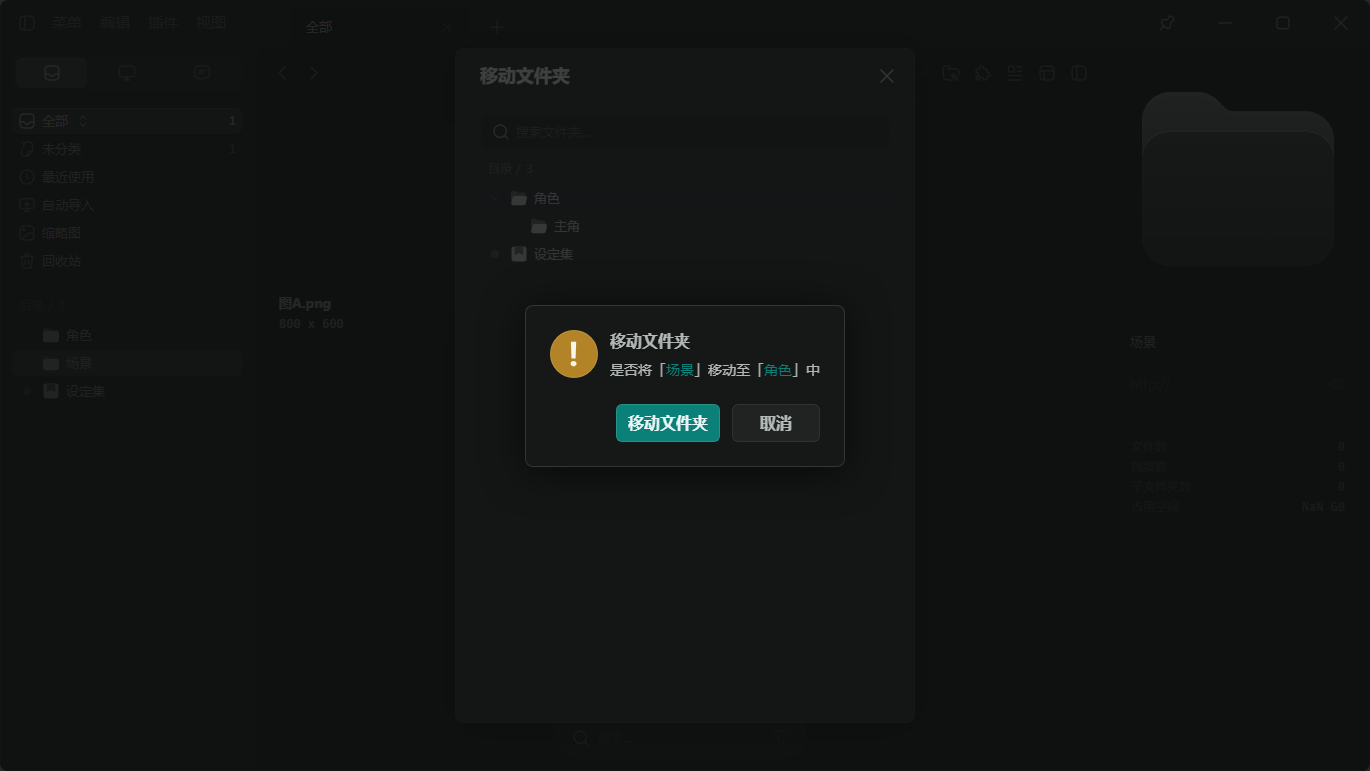
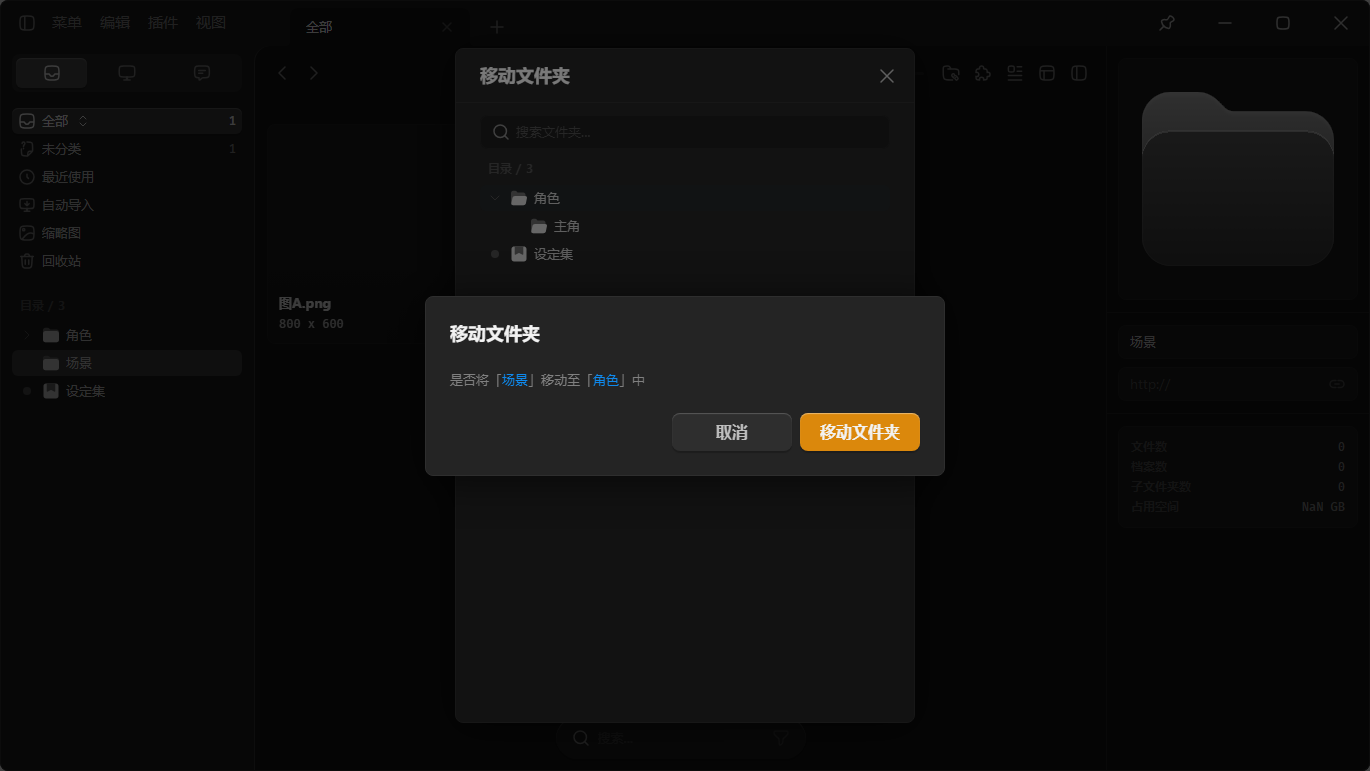
feat(ui): 通用确认弹窗换代ConfirmModal(AppConfirm渲染层迁移,用户实机指示「顺便换成最新的」)——confirmPrompt宿主AppConfirm渲染层AppModal(plain/alert)退役换modals/ConfirmModal(520宽/标题18/26一级/正文13/18三级/钮120×38次左主右/遮罩黑50%),9生产方字段零改全量随迁:kind映射=alert warning→warning/alert error·danger→danger/无alert→brand(稿:不危险的提示换品牌色),alert提示音保留(watch播playAl

Changed region(s): [[0.3066, 0.4047, 0.6745, 0.5914], [0.3679, 0.249, 0.4292, 0.3424], [0.3372, 0.0623, 0.4292, 0.1245]]

diff --git a/src/components/AppConfirm.vue b/src/components/AppConfirm.vue
@@ -1,16 +1,31 @@
 <script setup lang="ts">
-// 通用确认弹窗（6.3）：轻量一次性确认——警示前置（文件管理器打开）/ 可撤销操作说明
-//（删除文件夹）/ 不可逆操作二次确认（彻底删除，danger 主按钮错误色）。
+// 通用确认弹窗（6.3）——2026-09-08 换代：渲染层 AppModal（plain / alert）退役，换 modals/ConfirmModal
+//（组件/模态窗口/弹窗 稿：520 宽 / 标题 18/26 Bold 一级 / 正文 13/18 三级 / 按钮 120×38 次左主右）。
+// 字段映射：alert warning → kind warning（状态/警告钮）；alert error / danger → kind danger（状态/禁止钮）；
+// 无 alert 非危险 → kind brand（品牌/常态钮——稿：不危险的提示换品牌色）。
+// alert 提示音保留（figma 09 侵入式语义，lib/sounds playAlert）；bodySegments 高亮段保留 = 品牌/常态
+// --n-brand（新稿正文未画高亮——功能必需就近定档，旧 29 稿品牌色高亮口径沿，色号随新品牌）。
 // 由 selection.confirmPrompt 驱动，宿主 App.vue。
-// 2026-08-13 用户定：统一 AppModal plain 壳（无 X 纯标题，同 27_导入 弹窗族），
-// 按钮序主左次右（确认/导入在左、取消在右），旧 del-* 手写卡片废除。
-// 2026-08-13 用户定：高危操作走 AppModal alert 危险模板（figma 09：48 状态徽章横排 + 提示音）——
-// confirmPrompt.alert 设置即切换（首个用例 = 文件管理器打开警示）。
-import AppModal from "./AppModal.vue";
-import AppButton from "./AppButton.vue";
-import { useSelectionStore } from "../stores/selection";
+import { watch } from "vue";
+import ConfirmModal from "./modals/ConfirmModal.vue";
+import { playAlert } from "../lib/sounds";
+import { useSelectionStore, type ConfirmPrompt } from "../stores/selection";
 
 const selection = useSelectionStore();
+
+// alert 提示音：弹窗出现时播一次（旧 AppModal alert onMounted 口径）
+watch(
+  () => selection.confirmPrompt,
+  (p) => {
+    if (p?.alert) playAlert();
+  },
+);
+
+function kindOf(p: ConfirmPrompt): "warning" | "danger" | "brand" {
+  if (p.alert === "error" || p.danger) return "danger";
+  if (p.alert === "warning") return "warning";
+  return "brand";
+}
 
 function onConfirm(): void {
   const p = selection.confirmPrompt;
@@ -23,56 +38,27 @@ function onCancel(): void {
 </script>
 
 <template>
-  <AppModal
+  <ConfirmModal
     v-if="selection.confirmPrompt"
-    :variant="selection.confirmPrompt.alert ? 'alert' : 'plain'"
-    :alert-icon="selection.confirmPrompt.alert ?? 'warning'"
     :title="selection.confirmPrompt.title"
-    class="app-confirm"
-    @close="onCancel"
+    :kind="kindOf(selection.confirmPrompt)"
+    :confirm-label="selection.confirmPrompt.confirmLabel ?? '确认'"
+    @confirm="onConfirm"
+    @cancel="onCancel"
   >
-    <p class="text">
-      <template v-if="selection.confirmPrompt.bodySegments">
-        <template v-for="(seg, i) in selection.confirmPrompt.bodySegments" :key="i">
-          <span v-if="seg.accent" class="accent">{{ seg.text }}</span>
-          <template v-else>{{ seg.text }}</template>
-        </template>
+    <template v-if="selection.confirmPrompt.bodySegments">
+      <template v-for="(seg, i) in selection.confirmPrompt.bodySegments" :key="i">
+        <span v-if="seg.accent" class="accent">{{ seg.text }}</span>
+        <template v-else>{{ seg.text }}</template>
       </template>
-      <template v-else>{{ selection.confirmPrompt.body }}</template>
-    </p>
-    <template #actions>
-      <AppButton
-        variant="primary"
-        :class="{ danger: selection.confirmPrompt.danger }"
-        :label="selection.confirmPrompt.confirmLabel ?? '确认'"
-        @click="onConfirm"
-      />
-      <AppButton variant="panel" label="取消" @click="onCancel" />
     </template>
-  </AppModal>
+    <template v-else>{{ selection.confirmPrompt.body }}</template>
+  </ConfirmModal>
 </template>
 
 <style scoped>
-/* 正文：正文档常态色；限宽 420（含壳 padding 24×2），超长换行 */
-.text {
-  margin: 0;
-  max-width: 372px;
-  font-size: var(--text-body-size);
-  line-height: var(--text-body-line);
-  color: var(--text-normal);
-  word-break: break-all;
-}
-/* 按钮 88×38（速查表按钮组定宽口径，2026-08-15 探针实证「取消」两字钮塌到 56 宽）；
-   min-width 不压长标签（删除文件夹等超 88 按内容撑开） */
-.app-confirm :deep(.actions) .app-btn {
-  min-width: 88px;
-}
-/* danger（不可逆操作二次确认）：主按钮错误色 */
-.app-confirm :deep(.app-btn.danger) {
-  background: var(--error);
-}
-/* 正文高亮段（3.4 移动确认，29 稿：发起名 / 目标父级名品牌色-常态） */
-.text .accent {
-  color: var(--brand);
+/* 正文高亮段（3.4 移动确认：发起名 / 目标父级名品牌色——新稿未画高亮，就近定档 --n-brand） */
+.accent {
+  color: var(--n-brand);
 }
 </style>

diff --git a/src/components/modals/ConfirmModal.vue b/src/components/modals/ConfirmModal.vue
@@ -77,6 +77,7 @@ const emit = defineEmits<{ confirm: []; cancel: [] }>();
   font-size: var(--n-fs-body);
   line-height: var(--n-lh-body);
   color: var(--n-l3);
+  word-break: break-all; /* 沿用旧 AppConfirm 正文折行口径——长路径/英文串不顶出 520 定宽 */
 }
 .actions {
   display: flex;

diff --git a/tools/cdp-move-panel-probe.py b/tools/cdp-move-panel-probe.py
@@ -2,8 +2,8 @@
 #   S1 右键树 f2 →「移动文件夹」→ 面板结构：标题/宽 460/搜索框（TextInput 左置图标）/
 #      区块标题「目录 / 3」（f2 被排除）/ f1-1 可见（默认全展开）/ 面板内无 f2
 #   S2 hover f1 中部 → drop-into；上部 → drop-before（三分判定，TreeRowItem dropZone）
-#   S3 点击 f1 中部 → AppConfirm alert：标题"移动文件夹" + accent 高亮段「场景」「角色」+
-#      确认钮"移动文件夹" + 48 徽章
+#   S3 点击 f1 中部 → ConfirmModal（warning）：标题"移动文件夹" + accent 高亮段「场景」「角色」+
+#      按钮次左主右 = 取消 / 移动文件类（确认在右）
 #   S4 确认 → move_folders{folderIds:["f2"], targetParent:"f1"} + 面板关闭
 #   S5 右键档案 f3 →「移动档案」→ 标题"移动档案"；X 关闭
 #   S6 素材卡选中 → Ctrl+Y → 标题"移动文件" → 点 f1 中部 → 确认 → move_placements{targetFolder:"f1"}
@@ -298,36 +298,36 @@ async def main():
             else:
                 check("S2 面板内定位角色", False)
 
-            # ---- S3 点击中部 → alert 确认窗 ----
+            # ---- S3 点击中部 → ConfirmModal 确认窗（2026-09-08 AppConfirm 换代 ConfirmModal） ----
             if mid:
                 await click_xy(mid["x"], mid["y"])
                 await asyncio.sleep(0.6)
             conf = await ev("""
               (() => {
-                const m = document.querySelector('.app-modal.alert');
+                const m = document.querySelector('.kit-modal');
                 if (!m) return null;
                 return {
                   title: m.querySelector('.title')?.textContent ?? "",
                   accents: [...m.querySelectorAll('.accent')].map((a) => a.textContent),
-                  confirm: [...m.querySelectorAll('.actions .app-btn')].map((b) => b.textContent.trim()),
-                  badge: !!m.querySelector('.alert-badge'),
-                  body: m.querySelector('.text')?.textContent ?? "",
+                  buttons: [...m.querySelectorAll('.actions .btn')].map((b) => b.textContent.trim()),
+                  confirmKind: [...m.querySelectorAll('.actions .btn.confirm')].map((b) => b.className),
+                  body: m.querySelector('.body')?.textContent ?? "",
                 };
               })()
             """)
-            check("S3a 确认窗 alert 开", conf is not None)
+            check("S3a 确认窗 ConfirmModal 开", conf is not None)
             if conf:
                 check("S3b 标题=移动文件夹", conf["title"] == "移动文件夹", conf["title"])
                 check("S3c 高亮段=场景/角色", conf["accents"] == ["场景", "角色"], json.dumps(conf["accents"], ensure_ascii=False))
-                check("S3d 确认钮=移动文件夹", conf["confirm"][0] == "移动文件夹", json.dumps(conf["confirm"], ensure_ascii=False))
-                check("S3e 48 徽章在", conf["badge"])
+                check("S3d 按钮次左主右=取消/移动文件夹", conf["buttons"] == ["取消", "移动文件夹"], json.dumps(conf["buttons"], ensure_ascii=False))
+                check("S3e 确认钮 warning 档", any("warning" in k for k in conf["confirmKind"]), str(conf["confirmKind"]))
                 check("S3f 文案句式", conf["body"] == "是否将「场景」移动至「角色」中", conf["body"])
                 await shot(SHOT2)
 
             # ---- S4 确认执行 ----
             btn = await ev("""
               (() => {
-                const b = [...document.querySelectorAll('.app-modal.alert .actions .app-btn')]
+                const b = [...document.querySelectorAll('.kit-modal .actions .btn')]
                   .find((x) => x.textContent.trim() === "移动文件夹");
                 if (!b) return null;
                 const r = b.getBoundingClientRect();
@@ -345,7 +345,7 @@ async def main():
                       c0.get("folderIds") == ["f2"] and c0.get("targetParent") == "f1",
                       json.dumps(c0, ensure_ascii=False))
             check("S4c 面板关闭", not await ev("!!document.querySelector('.move-panel')"))
-            check("S4d 确认窗关闭", not await ev("!!document.querySelector('.app-modal.alert')"))
+            check("S4d 确认窗关闭", not await ev("!!document.querySelector('.kit-modal')"))
 
             # ---- S5 档案 → 移动档案 ----
             if await right_click_tree("f3") and await click_menu("移动档案"):
@@ -395,7 +395,7 @@ async def main():
                 await asyncio.sleep(0.6)
                 btn6 = await ev("""
                   (() => {
-                    const b = [...document.querySelectorAll('.app-modal.alert .actions .app-btn')]
+                    const b = [...document.querySelectorAll('.kit-modal .actions .btn')]
                       .find((x) => x.textContent.trim() === "移动文件");
                     if (!b) return null;
                     const r = b.getBoundingClientRect();

diff --git a/docs/02_开发日志/2026-09/Index.md b/docs/02_开发日志/2026-09/Index.md
@@ -1,8 +1,8 @@
 # 2026-09 开发日志
 
-> 本月 77 个任务文件（命名 `YYYY-MM-DD[_NN]_标题.md`）。总目录见 [Index](../../Index.md)。
+> 本月 78 个任务文件（命名 `YYYY-MM-DD[_NN]_标题.md`）。总目录见 [Index](../../Index.md)。
 
-- **2026-09-08**：[01_阶段七 · 只读视口导入入口封堵（最近使用·自动导入·缩略图·回收站）](2026-09-08_01_阶段七 · 只读视口导入入口封堵（最近使用·自动导入·缩略图·回收站）.md) · [02_阶段七 · 快速访问「回收站」行素材拖入落点](2026-09-08_02_阶段七 · 快速访问「回收站」行素材拖入落点.md) · [03_阶段七 · 自动导入行数量含未导入源文件](2026-09-08_03_阶段七 · 自动导入行数量含未导入源文件.md) · [04_阶段七 · 收件箱工程文件卡片换代 FileCard square](2026-09-08_04_阶段七 · 收件箱工程文件卡片换代 FileCard square.md) · [05_阶段七 · 收件箱工程文件区块标题与提示行统一](2026-09-08_05_阶段七 · 收件箱工程文件区块标题与提示行统一.md) · [06_阶段七 · 创建与合并资源库弹窗换新稿（BaseModal）](2026-09-08_06_阶段七 · 创建与合并资源库弹窗换新稿（BaseModal）.md) · [07_杂项 · 副本 origin 标记修复（用户实机报 BUG）](2026-09-08_07_杂项 · 副本 origin 标记修复（用户实机报 BUG）.md) · [08_杂项 · 侧栏收起状态启动恢复修复（实机走查第 1 条）](2026-09-08_08_杂项 · 侧栏收起状态启动恢复修复（实机走查第 1 条）.md) · [09_杂项 · 最大化时原生窗口按钮压自定义按钮修复（实机走查第 17 条）](2026-09-08_09_杂项 · 最大化时原生窗口按钮压自定义按钮修复（实机走查第 17 条）.md) · [10_杂项 · alt+` 呼出改最上层判定（实机走查第 19 条）](2026-09-08_10_杂项 · alt+` 呼出改最上层判定（实机走查第 19 条）.md) · [11_杂项 · 发送至 AN 点击即最小化主窗口（实机走查第 20 条）](2026-09-08_11_杂项 · 发送至 AN 点击即最小化主窗口（实机走查第 20 条）.md) · [12_杂项 · 最大化动画闪 DWM 原生按钮根治（NCCALCSIZE-GETMINMAXINFO 接管，最大化云母保留）](2026-09-08_12_杂项 · 最大化动画闪 DWM 原生按钮根治（NCCALCSIZE-GETMINMAXINFO 接管，最大化云母保留）.md) · [13_杂项 · 最大化原生按钮三轮终局：最大化摘 caption、还原加回（用户思路 + 参考代码修正）](2026-09-08_13_杂项 · 最大化原生按钮三轮终局：最大化摘 caption、还原加回（用户思路 + 参考代码修正）.md) · [14_杂项 · 自定义图标无法改色修复（实机走查第一批）](2026-09-08_14_杂项 · 自定义图标无法改色修复（实机走查第一批）.md) · [15_阶段七 · 移动与导入弹窗换新稿（BaseModal framed - Radio）](2026-09-08_15_阶段七 · 移动与导入弹窗换新稿（BaseModal framed - Radio）.md)
+- **2026-09-08**：[01_阶段七 · 只读视口导入入口封堵（最近使用·自动导入·缩略图·回收站）](2026-09-08_01_阶段七 · 只读视口导入入口封堵（最近使用·自动导入·缩略图·回收站）.md) · [02_阶段七 · 快速访问「回收站」行素材拖入落点](2026-09-08_02_阶段七 · 快速访问「回收站」行素材拖入落点.md) · [03_阶段七 · 自动导入行数量含未导入源文件](2026-09-08_03_阶段七 · 自动导入行数量含未导入源文件.md) · [04_阶段七 · 收件箱工程文件卡片换代 FileCard square](2026-09-08_04_阶段七 · 收件箱工程文件卡片换代 FileCard square.md) · [05_阶段七 · 收件箱工程文件区块标题与提示行统一](2026-09-08_05_阶段七 · 收件箱工程文件区块标题与提示行统一.md) · [06_阶段七 · 创建与合并资源库弹窗换新稿（BaseModal）](2026-09-08_06_阶段七 · 创建与合并资源库弹窗换新稿（BaseModal）.md) · [07_杂项 · 副本 origin 标记修复（用户实机报 BUG）](2026-09-08_07_杂项 · 副本 origin 标记修复（用户实机报 BUG）.md) · [08_杂项 · 侧栏收起状态启动恢复修复（实机走查第 1 条）](2026-09-08_08_杂项 · 侧栏收起状态启动恢复修复（实机走查第 1 条）.md) · [09_杂项 · 最大化时原生窗口按钮压自定义按钮修复（实机走查第 17 条）](2026-09-08_09_杂项 · 最大化时原生窗口按钮压自定义按钮修复（实机走查第 17 条）.md) · [10_杂项 · alt+` 呼出改最上层判定（实机走查第 19 条）](2026-09-08_10_杂项 · alt+` 呼出改最上层判定（实机走查第 19 条）.md) · [11_杂项 · 发送至 AN 点击即最小化主窗口（实机走查第 20 条）](2026-09-08_11_杂项 · 发送至 AN 点击即最小化主窗口（实机走查第 20 条）.md) · [12_杂项 · 最大化动画闪 DWM 原生按钮根治（NCCALCSIZE-GETMINMAXINFO 接管，最大化云母保留）](2026-09-08_12_杂项 · 最大化动画闪 DWM 原生按钮根治（NCCALCSIZE-GETMINMAXINFO 接管，最大化云母保留）.md) · [13_杂项 · 最大化原生按钮三轮终局：最大化摘 caption、还原加回（用户思路 + 参考代码修正）](2026-09-08_13_杂项 · 最大化原生按钮三轮终局：最大化摘 caption、还原加回（用户思路 + 参考代码修正）.md) · [14_杂项 · 自定义图标无法改色修复（实机走查第一批）](2026-09-08_14_杂项 · 自定义图标无法改色修复（实机走查第一批）.md) · [15_阶段七 · 移动与导入弹窗换新稿（BaseModal framed - Radio）](2026-09-08_15_阶段七 · 移动与导入弹窗换新稿（BaseModal framed - Radio）.md) · [16_阶段七 · 通用确认弹窗换代 ConfirmModal（AppConfirm 渲染层迁移）](2026-09-08_16_阶段七 · 通用确认弹窗换代 ConfirmModal（AppConfirm 渲染层迁移）.md)
 - **2026-09-07**：[01_阶段七 · 视图菜单「重置窗口」（用户当场定：窗口 1400×1100 + 左 254 - 中 88](2026-09-07_01_阶段七 · 视图菜单「重置窗口」（用户当场定：窗口 1400×1100 + 左 254 - 中 88.md) · [02_杂项 · rust 1.97 工具链 lint 漂移清零（实机走查项）](2026-09-07_02_杂项 · rust 1.97 工具链 lint 漂移清零（实机走查项）.md) · [03_阶段七 · 实机走查第一批标签栏与拆分条五条](2026-09-07_03_阶段七 · 实机走查第一批标签栏与拆分条五条.md) · [04_阶段七 · 走查第一批标签栏拆分条同日二轮（四条正态+补充）](2026-09-07_04_阶段七 · 走查第一批标签栏拆分条同日二轮（四条正态+补充）.md) · [05_阶段七 · 走查第一批拆分条同日三轮（常态线归属终定）](2026-09-07_05_阶段七 · 走查第一批拆分条同日三轮（常态线归属终定）.md) · [06_阶段七 · 走查第一批内容容器边框同日四轮（左缘线全量）](2026-09-07_06_阶段七 · 走查第一批内容容器边框同日四轮（左缘线全量）.md) · [07_阶段七 · 快速访问「全部」行改资源库行（库名 + 切换资源库钮）](2026-09-07_07_阶段七 · 快速访问「全部」行改资源库行（库名 + 切换资源库钮）.md) · [08_阶段七 · 资源库菜单换新样式（共享 spec）+ 旧 08 稿库菜单机制拆除](2026-09-07_08_阶段七 · 资源库菜单换新样式（共享 spec）+ 旧 08 稿库菜单机制拆除.md)
 - **2026-09-06**：[01_阶段七 · 菜单栏「编辑」菜单接业务轮（稿 = 用户当场供稿截图）](2026-09-06_01_阶段七 · 菜单栏「编辑」菜单接业务轮（稿 = 用户当场供稿截图）.md) · [02_阶段七 · 菜单栏「视图」菜单接业务轮（稿 = 用户当场供稿截图）](2026-09-06_02_阶段七 · 菜单栏「视图」菜单接业务轮（稿 = 用户当场供稿截图）.md) · [03_阶段七 · 菜单栏「插件」轮 + CEP 设置重构（稿 = 工具栏展开窗口-插件.md + Anim](2026-09-06_03_阶段七 · 菜单栏「插件」轮 + CEP 设置重构（稿 = 工具栏展开窗口-插件.md + Anim.md)
 - **2026-09-05**：[01_阶段七 · 上下文菜单走查轮（实机走查.md「上下文菜单」节 44-87 行）](2026-09-05_01_阶段七 · 上下文菜单走查轮（实机走查.md「上下文菜单」节 44-87 行）.md) · [02_阶段七 · 上下文菜单轮同日二轮（用户实机走查反馈三条 + 破窗修复）](2026-09-05_02_阶段七 · 上下文菜单轮同日二轮（用户实机走查反馈三条 + 破窗修复）.md) · [03_阶段七 · 上下文菜单轮同日三轮（用户实机再走查三条）](2026-09-05_03_阶段七 · 上下文菜单轮同日三轮（用户实机再走查三条）.md) · [04_阶段七 · 菜单栏主菜单轮（菜单钮接业务，稿 = 用户当场供稿截图）](2026-09-05_04_阶段七 · 菜单栏主菜单轮（菜单钮接业务，稿 = 用户当场供稿截图）.md) · [05_阶段七 · 菜单栏主菜单轮同日二轮（用户实机反馈两条）](2026-09-05_05_阶段七 · 菜单栏主菜单轮同日二轮（用户实机反馈两条）.md) · [06_阶段七 · 菜单栏主菜单轮同日三轮（用户定口径分流）](2026-09-05_06_阶段七 · 菜单栏主菜单轮同日三轮（用户定口径分流）.md) · [07_阶段七 · 菜单栏主菜单轮同日四轮（全局搜索点亮）](2026-09-05_07_阶段七 · 菜单栏主菜单轮同日四轮（全局搜索点亮）.md) · [08_阶段七 · 菜单栏主菜单轮同日五轮（整理标签两项点亮）](2026-09-05_08_阶段七 · 菜单栏主菜单轮同日五轮（整理标签两项点亮）.md)

diff --git a/docs/06_UI重构/规范/口径速查/01_弹窗.md b/docs/06_UI重构/规范/口径速查/01_弹窗.md
@@ -1,12 +1,12 @@
 # 1. 弹窗
 
 
-> **阶段七新写弹窗一律 `modals/ConfirmModal`（警告/错误/品牌三 kind，见 §24 完整口径）；AppModal / AppConfirm 为旧件随迁移退役**（2026-09-02 资产污染弹窗踩坑：本节旧口径未加指引致新弹窗按 AppModal 写跑偏——检索本表必须读全文含末尾轮次追加节，勿以 Grep 片段代替通读）。存量 AppModal 面板未迁移前，本节以下口径照旧有效：
+> **阶段七新写弹窗一律 `modals/ConfirmModal`（警告/错误/品牌三 kind，见 §24 完整口径）；AppModal 为旧件随迁移退役**（2026-09-02 资产污染弹窗踩坑：本节旧口径未加指引致新弹窗按 AppModal 写跑偏——检索本表必须读全文含末尾轮次追加节，勿以 Grep 片段代替通读）。**AppConfirm 渲染层已换代 ConfirmModal（2026-09-08，§24 末条）**——confirmPrompt 字段映射与提示音保留口径见该条；AppConfirm 组件本体仍是 confirmPrompt 宿主（App.vue 挂载不变）。存量 AppModal 面板未迁移前，本节以下口径照旧有效：
 
 - 外框 = 1.5px 亮-选中**真 border**（盒模型内缩）。**禁** inset box-shadow 画框（内容层画框 → 滚轮/内容压线）。
 - 标题 = **常态色**（AppModal 默认已是 `--text-normal`，**勿覆盖**；高亮是错误信号）。
 - 按钮组 = **次左主右（2026-08-31 用户改定，旧「主左次右」作废——"确认放右边确实更顺手"）**：取消/上一步 在左，确认/合并/开启/删除 在右；88×38 定宽；底部按钮栏 62 高、padding 12 12 12 24、顶部分隔线。**全库存量弹窗/面板按钮序翻转登记 09 待办随轮消化**（7.1 二十三轮已翻转：选择模式备选区、封面设置组）。
-- **AppConfirm 按钮 min-width 88 已组件化（2026-08-15）**：`.app-confirm :deep(.actions) .app-btn { min-width: 88px; }`——各弹窗不必再局部补（错误信号：确认弹窗按钮随文案塌宽）。注意 `.text` max-width 372 是共享口径，描述超长会换行使弹窗实测宽度偏离稿值，改动须用户定夺。
+- **~~AppConfirm 按钮 min-width 88 已组件化（2026-08-15）~~（2026-09-08 起作废——AppConfirm 渲染层换代 ConfirmModal，钮 120×38 与壳 520 定宽已在组件层，§24 末条）**：旧 `.text` max-width 372 共享口径同废（新壳正文 word-break 折行兜底）。
 - 遮罩点击一律不关闭；关闭只走 X / 取消按钮。
 - 弹窗内 item 底色 = 窗口同色 C2（靠线条分层，不靠底色）；选中行描边 1.5px `--brand-border`。
 - 定宽弹窗写内容宽（border 另占 3px），宽度链变化时全组重算（如卡片行 666 链）。

diff --git a/docs/06_UI重构/规范/口径速查/24_阶段七控件与模态窗口轮（2026-09-01；稿 = 组件-按钮- 复选框·单选框·开关按钮 + 组件-模态窗口-弹窗）.md b/docs/06_UI重构/规范/口径速查/24_阶段七控件与模态窗口轮（2026-09-01；稿 = 组件-按钮- 复选框·单选框·开关按钮 + 组件-模态窗口-弹窗）.md
@@ -8,3 +8,4 @@
 - **控件动画档**：对勾 / 单选圆点 = 弹出 **250ms 过冲**（cubic-bezier(0.34,1.56,0.64,1)，沿用旧 AppRadio 既定档——token 未收过冲缓动）+ 收回 **150ms 缓入快收不回弹**（2026-08-12 用户定案沿用）；开关横移 = **250ms 小位移**；底 / 描边 / 文字色过渡 = **150ms**。
 - **ConfirmModal**（警告与错误弹窗）：窗口 **520 宽 padding 24 列 gap 24**，通用/三级底 + **1px 通用/五级真 border**（弹窗真 border 口径不变，新稿由 1.5 亮-选中改 1px 五级）+ 大阴影 + 圆角 8；**遮罩 = 黑色-50%**（新 token `--n-mask`，2026-09-01 用户定），点击不关闭；标题 = **18/26 Bold 亮色/一级**（新稿口径，旧「标题常态色 16px」随旧 AppModal 退役）；正文 13/18 三级；按钮行右对齐 gap 8（次左主右不变），**按钮 120×38**（新稿定宽，废 88×38）圆角 8 按钮文字-大——取消 = 通用/五级底 + 立体感-通用 + 文字二级，确认 = kind 色底（warning 状态/警告 / danger 状态/禁止 / brand 品牌/常态——稿：不危险的提示换品牌色）+ 立体感-主要按钮 + 文字一级；弹出动画 = 缩放 0.96→1 + 淡入 **150ms**。
 - **稿未画状态清单（待用户补稿，不做不自创）**：复选框 / 单选框的选中态 hover 与禁用态；开关 hover 与禁用视觉（disabled 现仅不响应点击）；弹窗按钮 hover。
+- **AppConfirm 换代 = ConfirmModal（2026-09-08，confirmPrompt 渲染层全量迁移）**：字段映射 = alert warning → kind warning / alert error·danger → kind danger / 无 alert 非危险 → kind brand；alert 提示音保留（AppConfirm watch playAlert，旧 AppModal alert onMounted 口径）；bodySegments 高亮段保留 = --n-brand（新稿正文未画高亮，功能必需就近定档）；`.body` 补 word-break: break-all（沿用旧 AppConfirm .text 折行口径——长路径不顶出 520 定宽）。**旧「min-width 88 组件化」与 1.5 亮-选中外框等 AppConfirm 期口径全废**（新壳 520 定宽 + 钮 120×38 已在组件层）。存量探针引用旧壳选择器（`.app-modal.alert` / `.app-confirm`）的一批随对应面板轮适配：cdp-archive / cdp-block-manage / cdp-custom-data / cdp-group(-stress) / cdp-sequence-pack / cdp-library-menu（cdp-move-panel 已于换代轮更新）；`.app-modal.alert` 直用方（FailedListDialog 等失败列表窗）不走 confirmPrompt、不在此列。

diff --git a/docs/02_开发日志/2026-09/2026-09-08_16_阶段七 · 通用确认弹窗换代 ConfirmModal（AppConfirm 渲染层迁移）.md b/docs/02_开发日志/2026-09/2026-09-08_16_阶段七 · 通用确认弹窗换代 ConfirmModal（AppConfirm 渲染层迁移）.md
@@ -1,0 +1,21 @@
+# 阶段七 · 通用确认弹窗换代 ConfirmModal（AppConfirm 渲染层迁移，2026-09-08）
+
+起因：移动面板换代后，用户实机截图发现落点确认窗仍是旧 AppConfirm（AppModal alert 壳 + 旧品牌青绿钮 + 48 黄徽章），指示「顺便换成最新的」。
+
+## 落地
+
+AppConfirm（selection.confirmPrompt 的唯一渲染宿主，App.vue 挂载）渲染层整体换 modals/ConfirmModal——组件/模态窗口/弹窗稿口径（520 宽 / 标题 18/26 Bold 一级 / 正文 13/18 三级 / 钮 120×38 次左主右 / 遮罩黑色-50% 点击不关闭）。confirmPrompt 的 9 个生产方（menuOps 6 / inboxOps / PropsDialog / MovePanel）字段零改，全量随宿主迁移：
+
+- kind 映射：alert warning → warning（状态/警告钮）；alert error 或 danger → danger（状态/禁止钮）；无 alert 非危险 → brand（稿：不危险的提示换品牌色）。
+- alert 提示音保留：AppConfirm 内 watch confirmPrompt 播 playAlert（旧 AppModal alert onMounted 口径）。
+- bodySegments 高亮段保留 = --n-brand（新稿正文未画高亮，功能必需就近定档；旧 29 稿品牌色口径沿，色号随新品牌蓝）。
+- ConfirmModal .body 补 word-break: break-all（沿用旧 AppConfirm .text 折行口径，长路径不顶出定宽）。
+- 旧口径同废：AppConfirm min-width 88 组件化、.text max-width 372、AppModal alert 48 徽章（新稿无徽章）。
+
+## 验证与波及
+
+vue-tsc 0 错。cdp-move-panel-probe S3/S4/S6 改新壳断言（.kit-modal / .actions .btn / 次左主右「取消, 移动文件夹」/ warning 档 / 去徽章断言），S1-S6 全 PASS + 确认窗截图目验贴稿。复跑首轮曾拿旧模块空跑——vite watcher 漏变更既坑（速查 §12 探针桩纪律），批量 touch 后绿。
+
+存量探针引用旧壳选择器（.app-modal.alert / .app-confirm）的一批标过期、随对应面板轮适配：cdp-archive / cdp-block-manage / cdp-custom-data / cdp-group(-stress) / cdp-sequence-pack / cdp-library-menu（多枚本在 2026-08-30 待办② 过渡态）。FailedListDialog 等 .app-modal.alert 直用方不走 confirmPrompt，不在此列。
+
+速查 §24 末条新立（映射 + 探针波及清单）、§1 两条旧口径作废标注。

diff --git a/docs/02_开发日志/Index.md b/docs/02_开发日志/Index.md
@@ -2,6 +2,6 @@
 
 > 做了什么、为什么、决策依据。**一个任务一个文件**（2026-09-07 起施行），命名 `YYYY-MM-DD[_NN]_标题.md`，按月份分文件夹存放（`YYYY-MM/`），月 Index 列任务清单，本文件只管月份导航。写新日志照此拆（开发规范第 4 条）。
 
-- **2026-09**（77 个任务）→ [2026-09/Index.md](2026-09/Index.md)
+- **2026-09**（78 个任务）→ [2026-09/Index.md](2026-09/Index.md)
 - **2026-08**（23 个任务）→ [2026-08/Index.md](2026-08/Index.md)
 - **2026-07**（13 个任务）→ [2026-07/Index.md](2026-07/Index.md)
